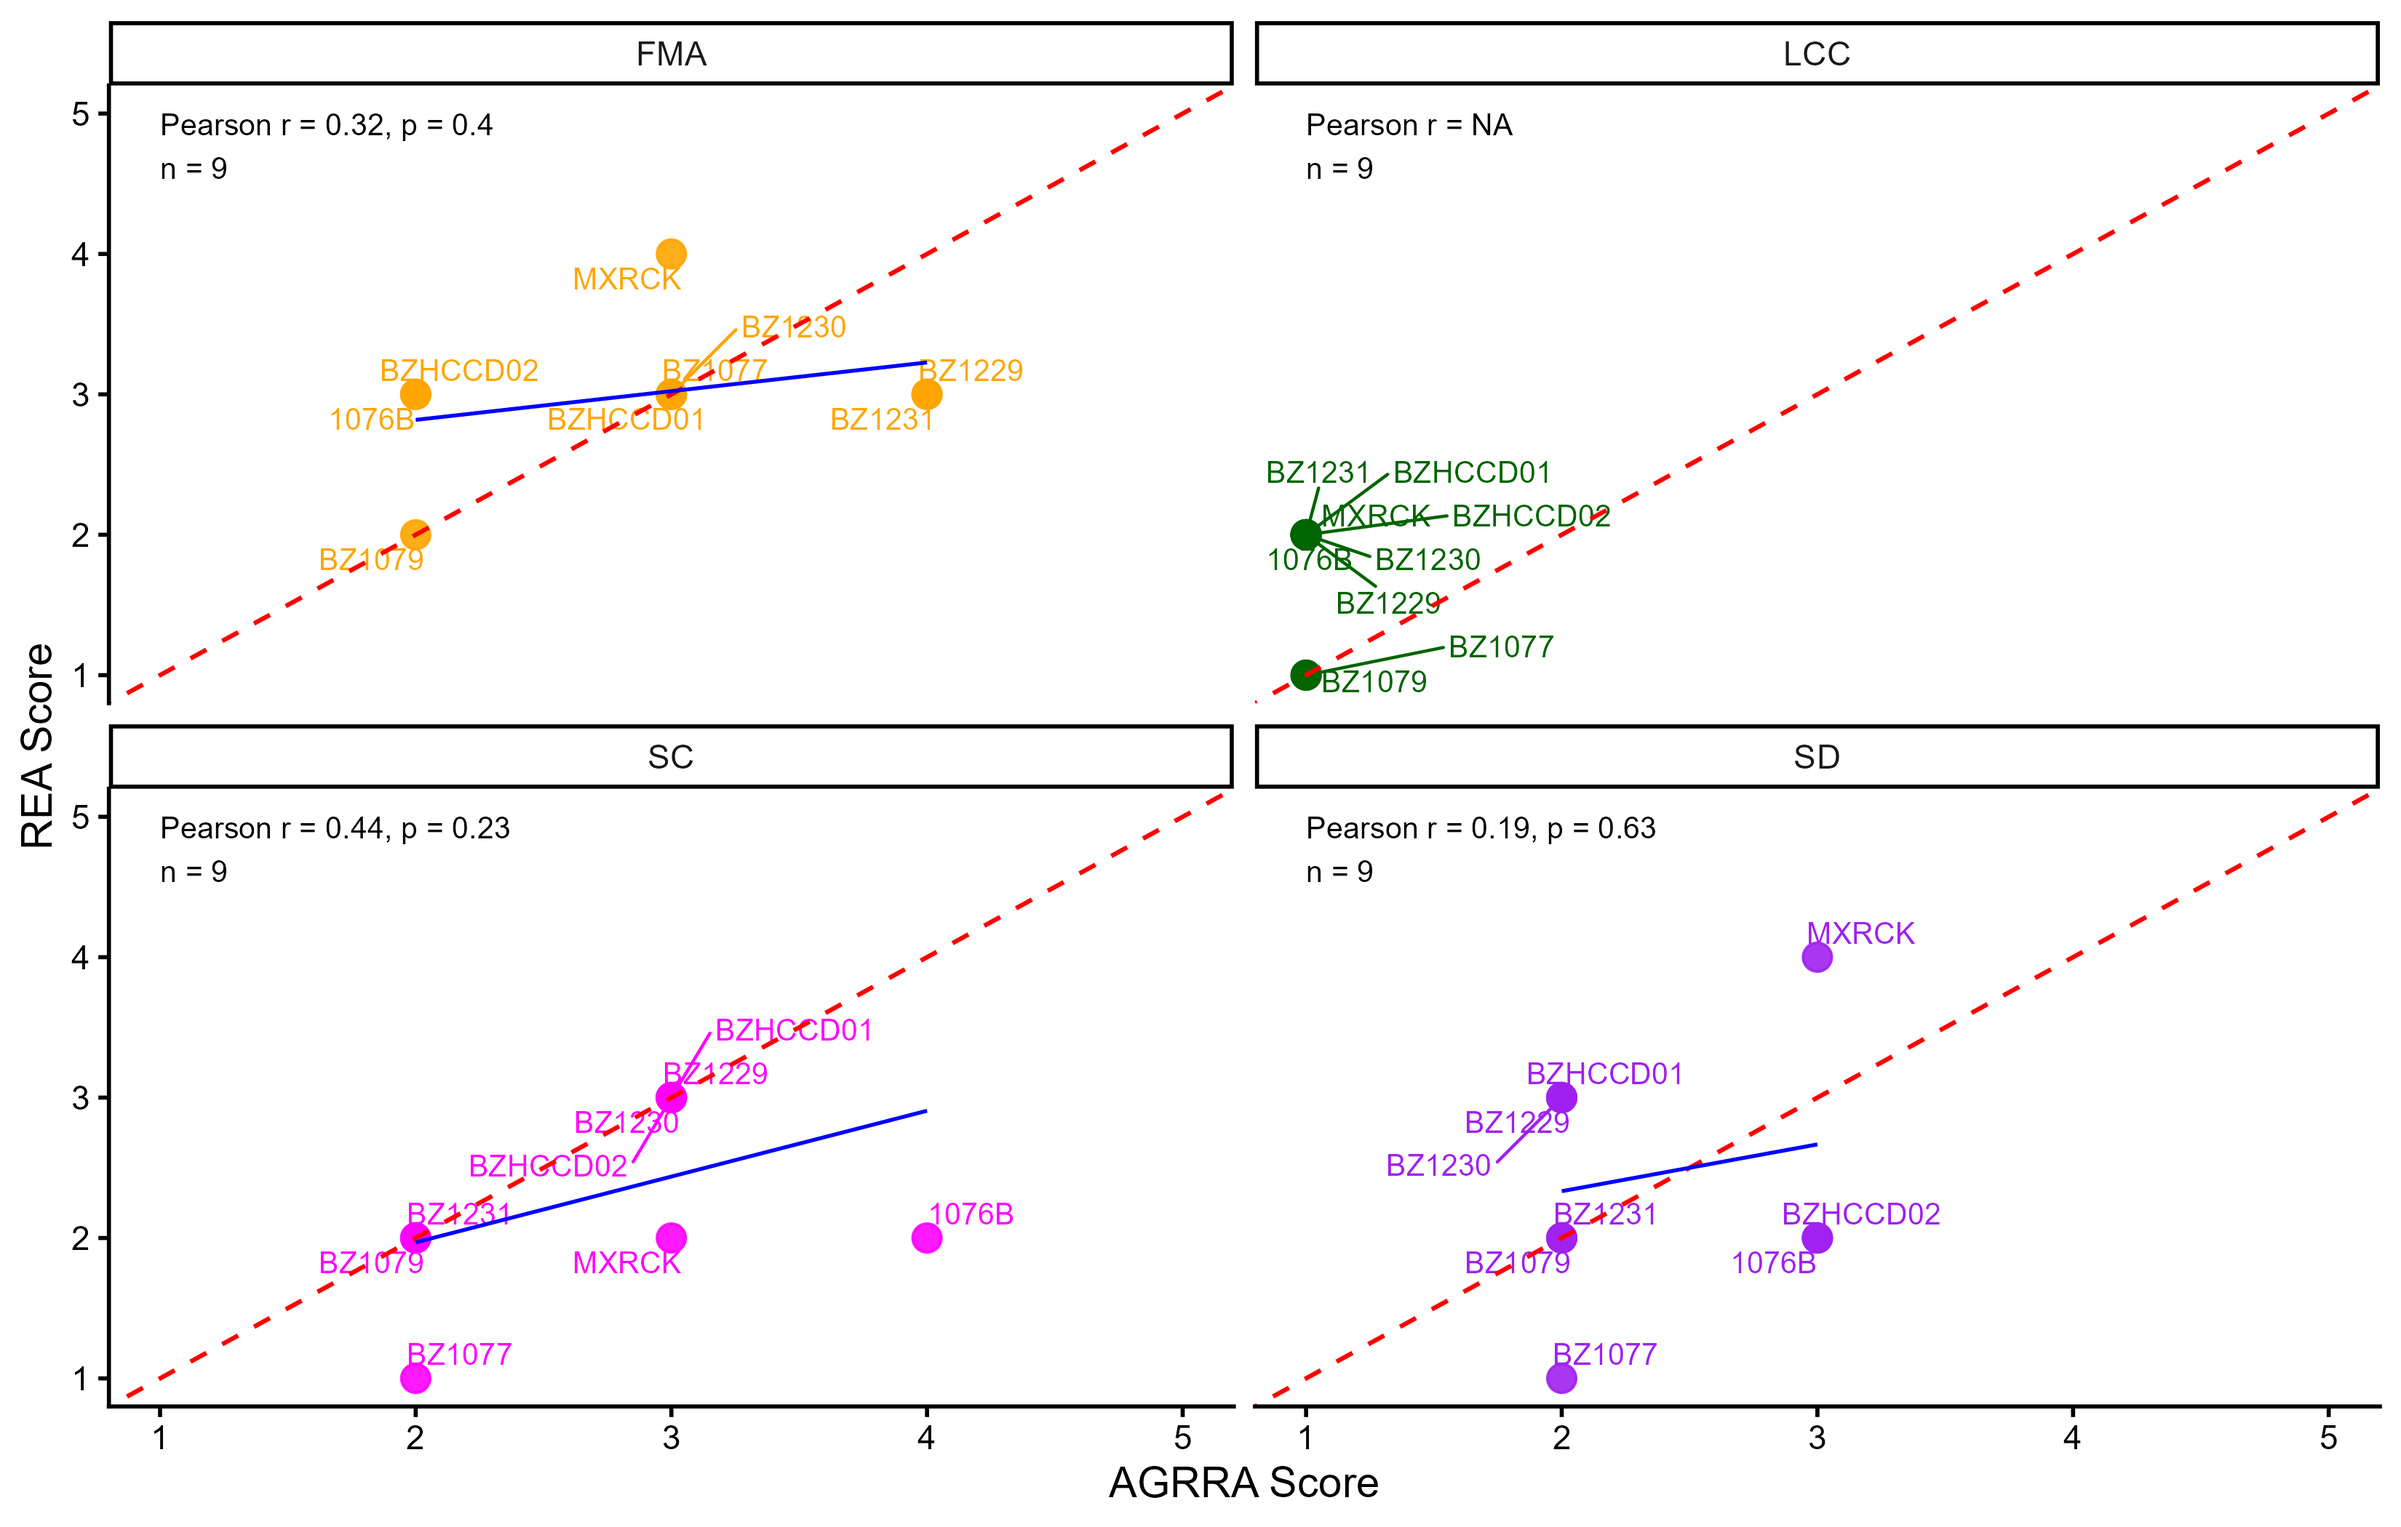
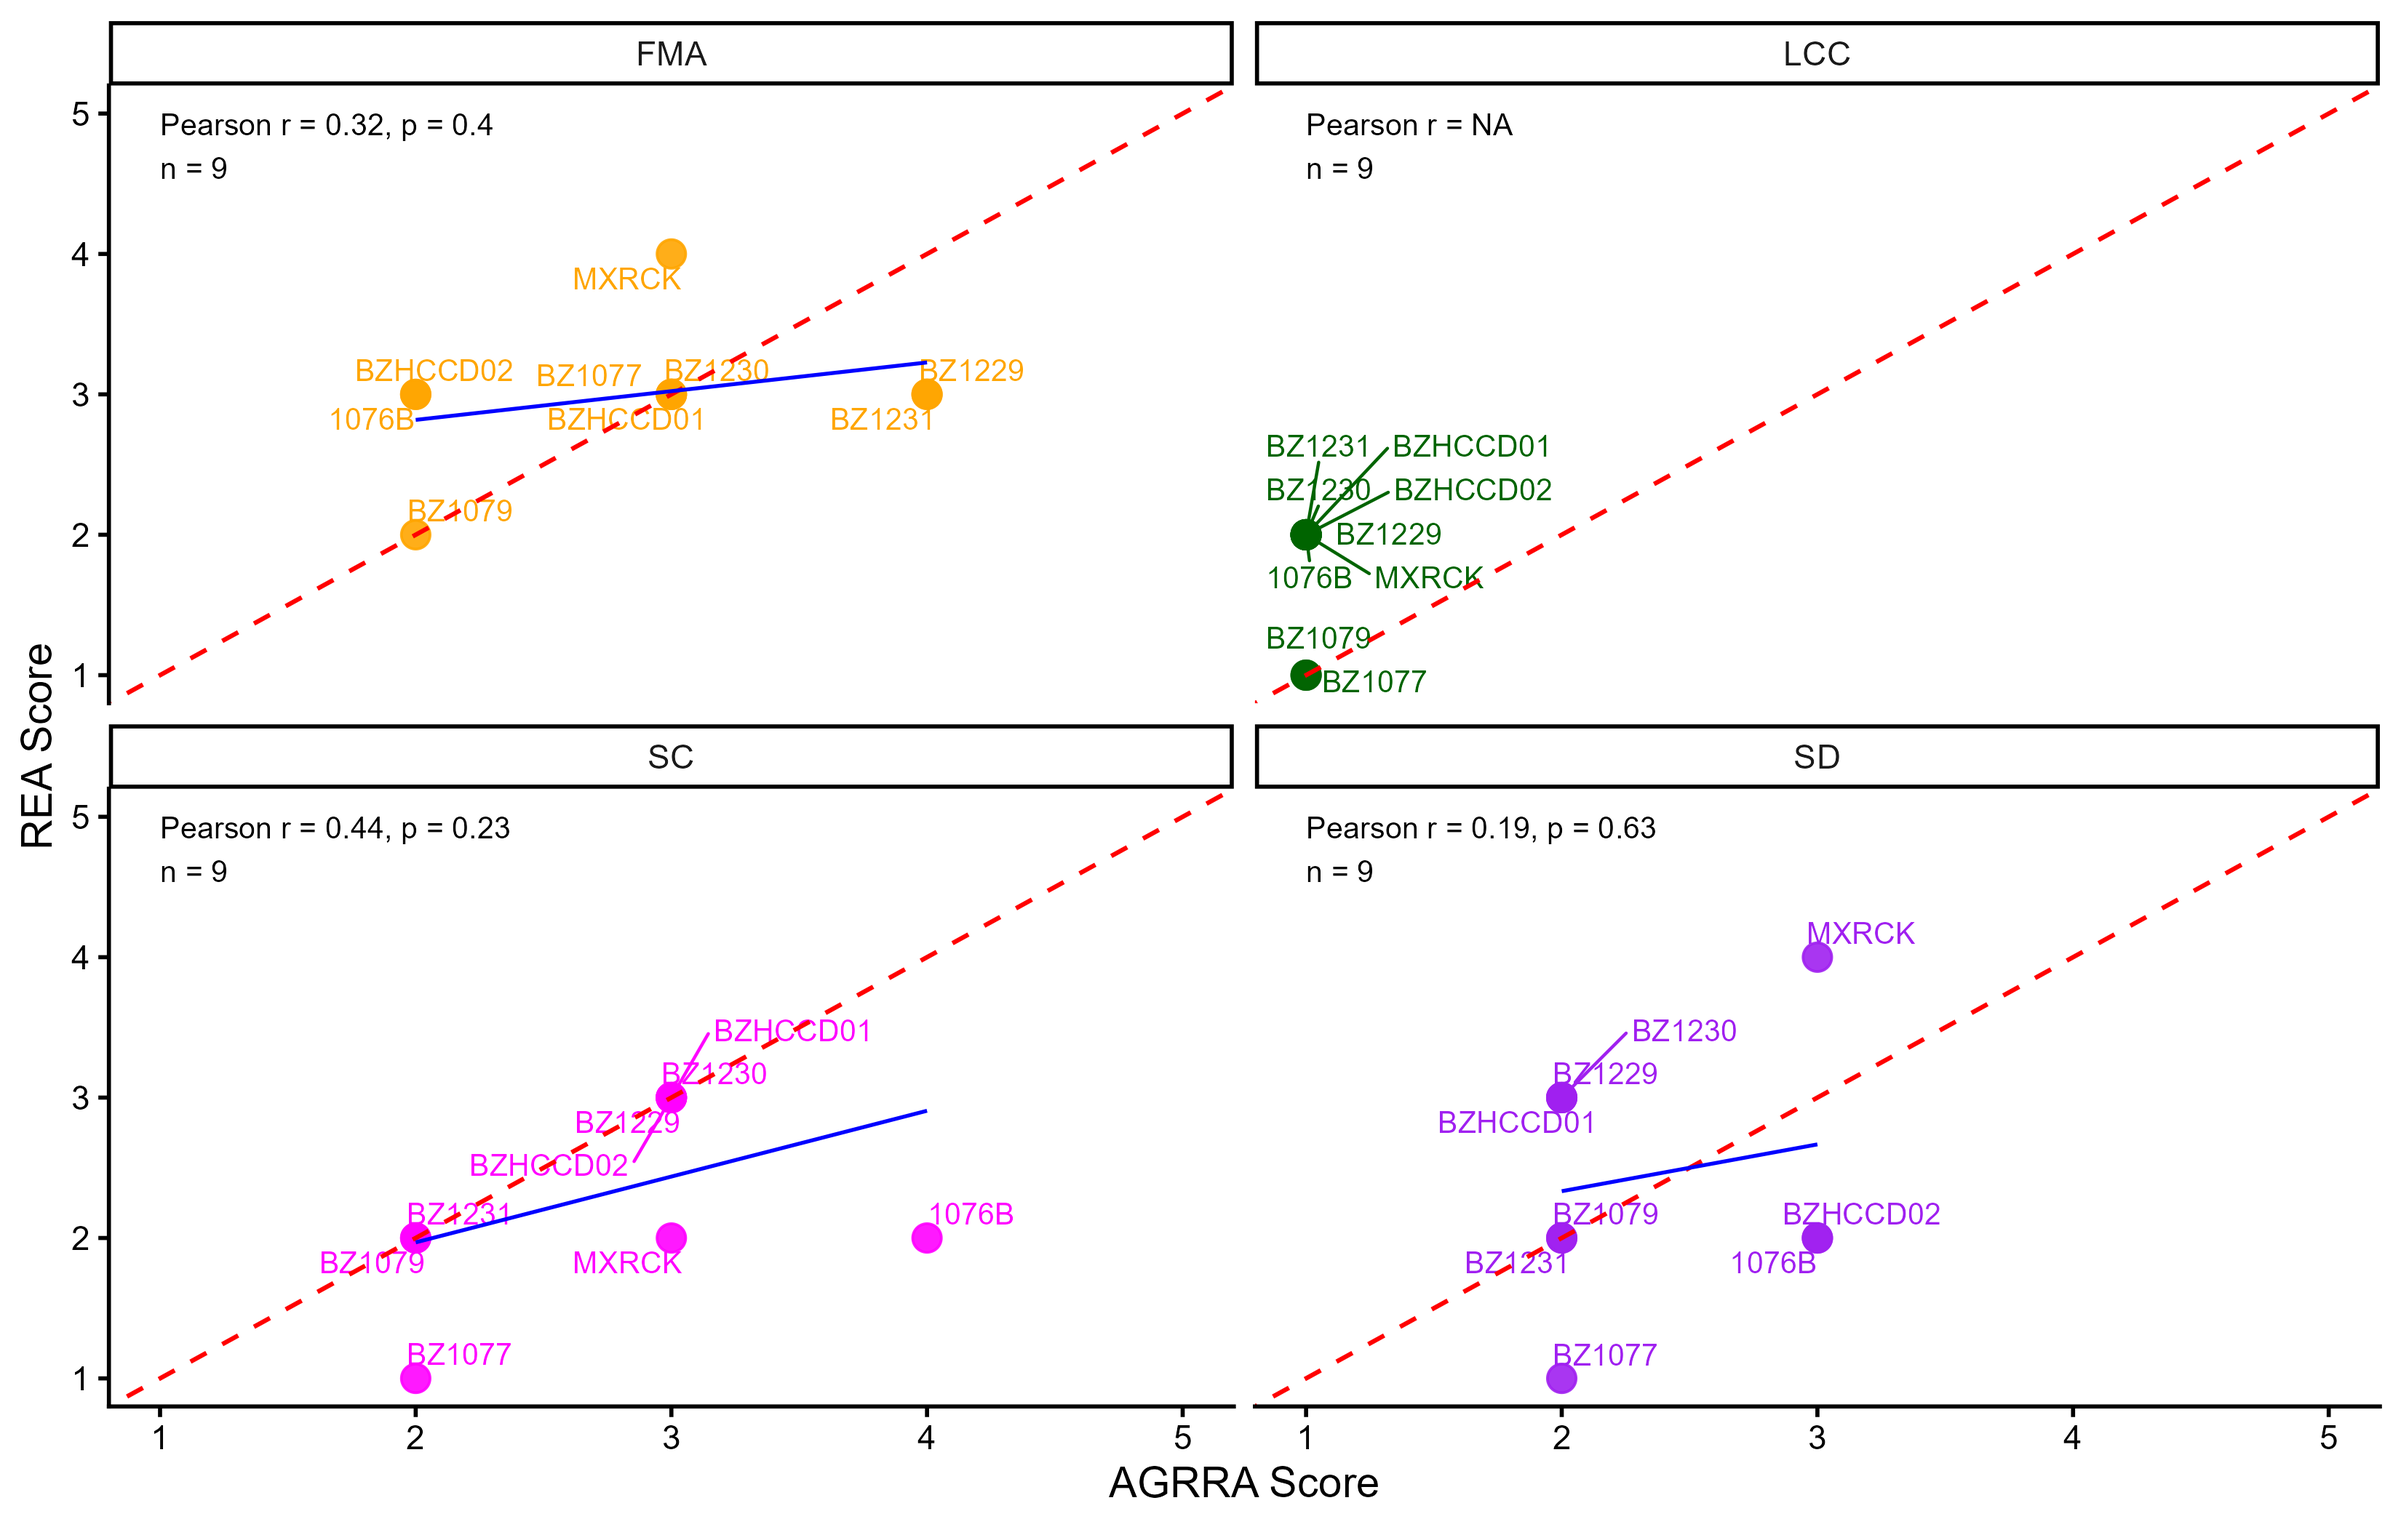
Updated charts

diff --git a/summary_table.html b/summary_table.html
@@ -7,23 +7,23 @@
 
 </head>
 <body>
-<div id="hoerbweijj" style="padding-left:0px;padding-right:0px;padding-top:10px;padding-bottom:10px;overflow-x:auto;overflow-y:auto;width:auto;height:auto;">
-  <style>#hoerbweijj table {
+<div id="sknrpxsuzh" style="padding-left:0px;padding-right:0px;padding-top:10px;padding-bottom:10px;overflow-x:auto;overflow-y:auto;width:auto;height:auto;">
+  <style>#sknrpxsuzh table {
   font-family: system-ui, 'Segoe UI', Roboto, Helvetica, Arial, sans-serif, 'Apple Color Emoji', 'Segoe UI Emoji', 'Segoe UI Symbol', 'Noto Color Emoji';
   -webkit-font-smoothing: antialiased;
   -moz-osx-font-smoothing: grayscale;
 }
 
-#hoerbweijj thead, #hoerbweijj tbody, #hoerbweijj tfoot, #hoerbweijj tr, #hoerbweijj td, #hoerbweijj th {
+#sknrpxsuzh thead, #sknrpxsuzh tbody, #sknrpxsuzh tfoot, #sknrpxsuzh tr, #sknrpxsuzh td, #sknrpxsuzh th {
   border-style: none;
 }
 
-#hoerbweijj p {
+#sknrpxsuzh p {
   margin: 0;
   padding: 0;
 }
 
-#hoerbweijj .gt_table {
+#sknrpxsuzh .gt_table {
   display: table;
   border-collapse: collapse;
   line-height: normal;
@@ -49,12 +49,12 @@
   border-left-color: #D3D3D3;
 }
 
-#hoerbweijj .gt_caption {
+#sknrpxsuzh .gt_caption {
   padding-top: 4px;
   padding-bottom: 4px;
 }
 
-#hoerbweijj .gt_title {
+#sknrpxsuzh .gt_title {
   color: #333333;
   font-size: 125%;
   font-weight: initial;
@@ -66,7 +66,7 @@
   border-bottom-width: 0;
 }
 
-#hoerbweijj .gt_subtitle {
+#sknrpxsuzh .gt_subtitle {
   color: #333333;
   font-size: 85%;
   font-weight: initial;
@@ -78,7 +78,7 @@
   border-top-width: 0;
 }
 
-#hoerbweijj .gt_heading {
+#sknrpxsuzh .gt_heading {
   background-color: #F5F5F5;
   text-align: center;
   border-bottom-color: #F5F5F5;
@@ -90,13 +90,13 @@
   border-right-color: #D3D3D3;
 }
 
-#hoerbweijj .gt_bottom_border {
+#sknrpxsuzh .gt_bottom_border {
   border-bottom-style: solid;
   border-bottom-width: 2px;
   border-bottom-color: #D3D3D3;
 }
 
-#hoerbweijj .gt_col_headings {
+#sknrpxsuzh .gt_col_headings {
   border-top-style: solid;
   border-top-width: 2px;
   border-top-color: #D3D3D3;
@@ -111,7 +111,7 @@
   border-right-color: #D3D3D3;
 }
 
-#hoerbweijj .gt_col_heading {
+#sknrpxsuzh .gt_col_heading {
   color: #333333;
   background-color: #F5F5F5;
   font-size: 100%;
@@ -131,7 +131,7 @@
   overflow-x: hidden;
 }
 
-#hoerbweijj .gt_column_spanner_outer {
+#sknrpxsuzh .gt_column_spanner_outer {
   color: #333333;
   background-color: #F5F5F5;
   font-size: 100%;
@@ -143,15 +143,15 @@
   padding-right: 4px;
 }
 
-#hoerbweijj .gt_column_spanner_outer:first-child {
+#sknrpxsuzh .gt_column_spanner_outer:first-child {
   padding-left: 0;
 }
 
-#hoerbweijj .gt_column_spanner_outer:last-child {
+#sknrpxsuzh .gt_column_spanner_outer:last-child {
   padding-right: 0;
 }
 
-#hoerbweijj .gt_column_spanner {
+#sknrpxsuzh .gt_column_spanner {
   border-bottom-style: solid;
   border-bottom-width: 2px;
   border-bottom-color: #D3D3D3;
@@ -163,11 +163,11 @@
   width: 100%;
 }
 
-#hoerbweijj .gt_spanner_row {
+#sknrpxsuzh .gt_spanner_row {
   border-bottom-style: hidden;
 }
 
-#hoerbweijj .gt_group_heading {
+#sknrpxsuzh .gt_group_heading {
   padding-top: 8px;
   padding-bottom: 8px;
   padding-left: 5px;
@@ -193,7 +193,7 @@
   text-align: left;
 }
 
-#hoerbweijj .gt_empty_group_heading {
+#sknrpxsuzh .gt_empty_group_heading {
   padding: 0.5px;
   color: #333333;
   background-color: #F5F5F5;
@@ -208,15 +208,15 @@
   vertical-align: middle;
 }
 
-#hoerbweijj .gt_from_md > :first-child {
+#sknrpxsuzh .gt_from_md > :first-child {
   margin-top: 0;
 }
 
-#hoerbweijj .gt_from_md > :last-child {
+#sknrpxsuzh .gt_from_md > :last-child {
   margin-bottom: 0;
 }
 
-#hoerbweijj .gt_row {
+#sknrpxsuzh .gt_row {
   padding-top: 8px;
   padding-bottom: 8px;
   padding-left: 5px;
@@ -235,7 +235,7 @@
   overflow-x: hidden;
 }
 
-#hoerbweijj .gt_stub {
+#sknrpxsuzh .gt_stub {
   color: #333333;
   background-color: #F5F5F5;
   font-size: 100%;
@@ -248,7 +248,7 @@
   padding-right: 5px;
 }
 
-#hoerbweijj .gt_stub_row_group {
+#sknrpxsuzh .gt_stub_row_group {
   color: #333333;
   background-color: #F5F5F5;
   font-size: 100%;
@@ -262,15 +262,15 @@
   vertical-align: top;
 }
 
-#hoerbweijj .gt_row_group_first td {
+#sknrpxsuzh .gt_row_group_first td {
   border-top-width: 2px;
 }
 
-#hoerbweijj .gt_row_group_first th {
+#sknrpxsuzh .gt_row_group_first th {
   border-top-width: 2px;
 }
 
-#hoerbweijj .gt_summary_row {
+#sknrpxsuzh .gt_summary_row {
   color: #333333;
   background-color: #F5F5F5;
   text-transform: inherit;
@@ -280,16 +280,16 @@
   padding-right: 5px;
 }
 
-#hoerbweijj .gt_first_summary_row {
+#sknrpxsuzh .gt_first_summary_row {
   border-top-style: solid;
   border-top-color: #D3D3D3;
 }
 
-#hoerbweijj .gt_first_summary_row.thick {
+#sknrpxsuzh .gt_first_summary_row.thick {
   border-top-width: 2px;
 }
 
-#hoerbweijj .gt_last_summary_row {
+#sknrpxsuzh .gt_last_summary_row {
   padding-top: 8px;
   padding-bottom: 8px;
   padding-left: 5px;
@@ -299,7 +299,7 @@
   border-bottom-color: #D3D3D3;
 }
 
-#hoerbweijj .gt_grand_summary_row {
+#sknrpxsuzh .gt_grand_summary_row {
   color: #333333;
   background-color: #F5F5F5;
   text-transform: inherit;
@@ -309,7 +309,7 @@
   padding-right: 5px;
 }
 
-#hoerbweijj .gt_first_grand_summary_row {
+#sknrpxsuzh .gt_first_grand_summary_row {
   padding-top: 8px;
   padding-bottom: 8px;
   padding-left: 5px;
@@ -319,7 +319,7 @@
   border-top-color: #D3D3D3;
 }
 
-#hoerbweijj .gt_last_grand_summary_row_top {
+#sknrpxsuzh .gt_last_grand_summary_row_top {
   padding-top: 8px;
   padding-bottom: 8px;
   padding-left: 5px;
@@ -329,11 +329,11 @@
   border-bottom-color: #D3D3D3;
 }
 
-#hoerbweijj .gt_striped {
+#sknrpxsuzh .gt_striped {
   background-color: rgba(128, 128, 128, 0.05);
 }
 
-#hoerbweijj .gt_table_body {
+#sknrpxsuzh .gt_table_body {
   border-top-style: solid;
   border-top-width: 2px;
   border-top-color: #D3D3D3;
@@ -342,7 +342,7 @@
   border-bottom-color: #D3D3D3;
 }
 
-#hoerbweijj .gt_footnotes {
+#sknrpxsuzh .gt_footnotes {
   color: #333333;
   background-color: #F5F5F5;
   border-bottom-style: none;
@@ -356,7 +356,7 @@
   border-right-color: #D3D3D3;
 }
 
-#hoerbweijj .gt_footnote {
+#sknrpxsuzh .gt_footnote {
   margin: 0px;
   font-size: 90%;
   padding-top: 4px;
@@ -365,7 +365,7 @@
   padding-right: 5px;
 }
 
-#hoerbweijj .gt_sourcenotes {
+#sknrpxsuzh .gt_sourcenotes {
   color: #333333;
   background-color: #F5F5F5;
   border-bottom-style: none;
@@ -379,7 +379,7 @@
   border-right-color: #D3D3D3;
 }
 
-#hoerbweijj .gt_sourcenote {
+#sknrpxsuzh .gt_sourcenote {
   font-size: 90%;
   padding-top: 4px;
   padding-bottom: 4px;
@@ -387,72 +387,72 @@
   padding-right: 5px;
 }
 
-#hoerbweijj .gt_left {
+#sknrpxsuzh .gt_left {
   text-align: left;
 }
 
-#hoerbweijj .gt_center {
+#sknrpxsuzh .gt_center {
   text-align: center;
 }
 
-#hoerbweijj .gt_right {
+#sknrpxsuzh .gt_right {
   text-align: right;
   font-variant-numeric: tabular-nums;
 }
 
-#hoerbweijj .gt_font_normal {
+#sknrpxsuzh .gt_font_normal {
   font-weight: normal;
 }
 
-#hoerbweijj .gt_font_bold {
+#sknrpxsuzh .gt_font_bold {
   font-weight: bold;
 }
 
-#hoerbweijj .gt_font_italic {
+#sknrpxsuzh .gt_font_italic {
   font-style: italic;
 }
 
-#hoerbweijj .gt_super {
+#sknrpxsuzh .gt_super {
   font-size: 65%;
 }
 
-#hoerbweijj .gt_footnote_marks {
+#sknrpxsuzh .gt_footnote_marks {
   font-size: 75%;
   vertical-align: 0.4em;
   position: initial;
 }
 
-#hoerbweijj .gt_asterisk {
+#sknrpxsuzh .gt_asterisk {
   font-size: 100%;
   vertical-align: 0;
 }
 
-#hoerbweijj .gt_indent_1 {
+#sknrpxsuzh .gt_indent_1 {
   text-indent: 5px;
 }
 
-#hoerbweijj .gt_indent_2 {
+#sknrpxsuzh .gt_indent_2 {
   text-indent: 10px;
 }
 
-#hoerbweijj .gt_indent_3 {
+#sknrpxsuzh .gt_indent_3 {
   text-indent: 15px;
 }
 
-#hoerbweijj .gt_indent_4 {
+#sknrpxsuzh .gt_indent_4 {
   text-indent: 20px;
 }
 
-#hoerbweijj .gt_indent_5 {
+#sknrpxsuzh .gt_indent_5 {
   text-indent: 25px;
 }
 
-#hoerbweijj .katex-display {
+#sknrpxsuzh .katex-display {
   display: inline-flex !important;
   margin-bottom: 0.75em !important;
 }
 
-#hoerbweijj div.Reactable > div.rt-table > div.rt-thead > div.rt-tr.rt-tr-group-header > div.rt-th-group:after {
+#sknrpxsuzh div.Reactable > div.rt-table > div.rt-thead > div.rt-tr.rt-tr-group-header > div.rt-th-group:after {
   height: 0px !important;
 }
 </style>
